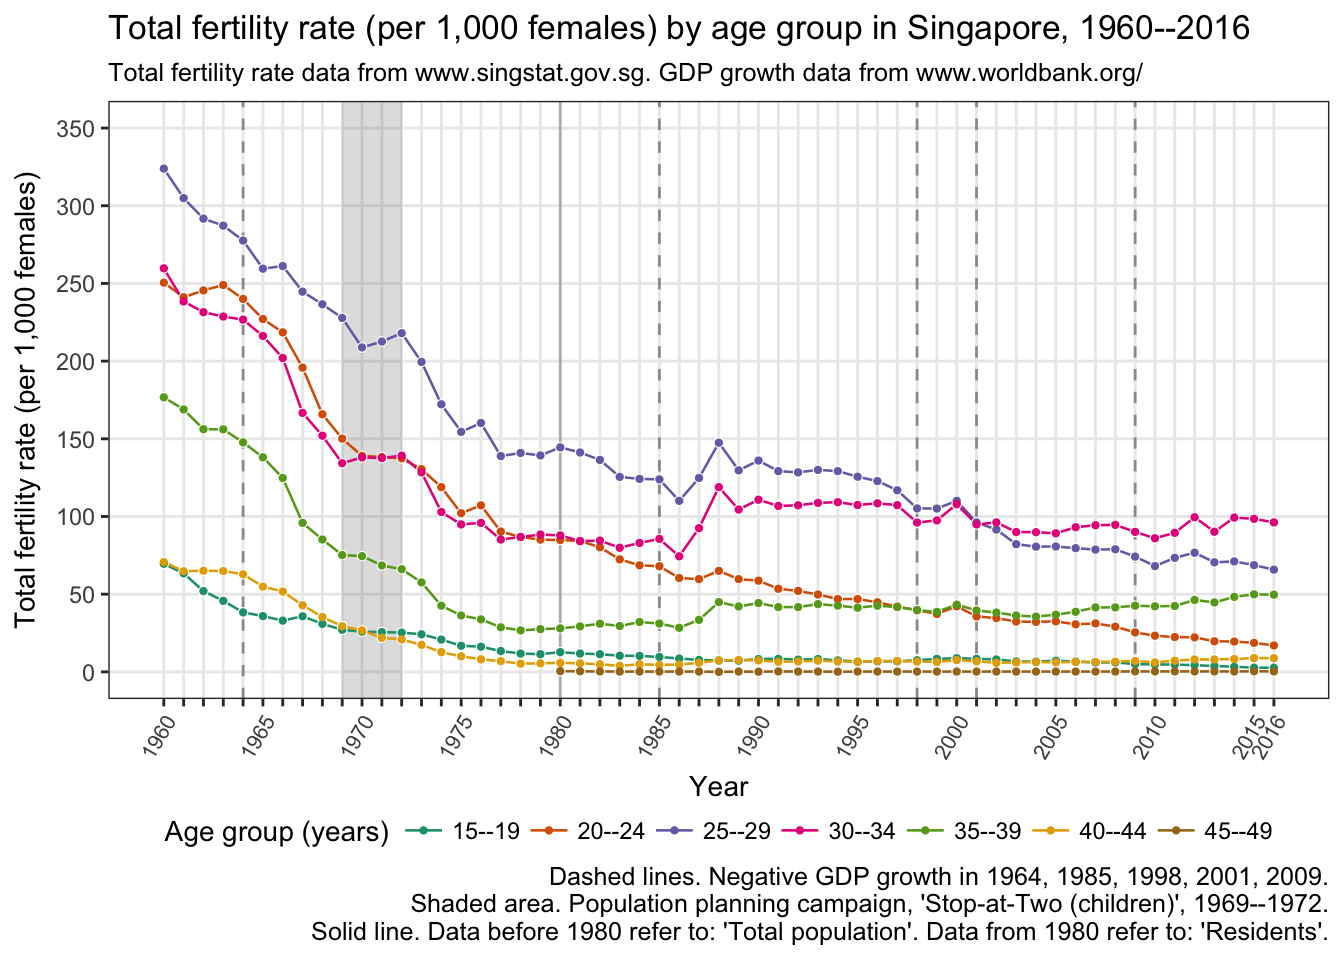
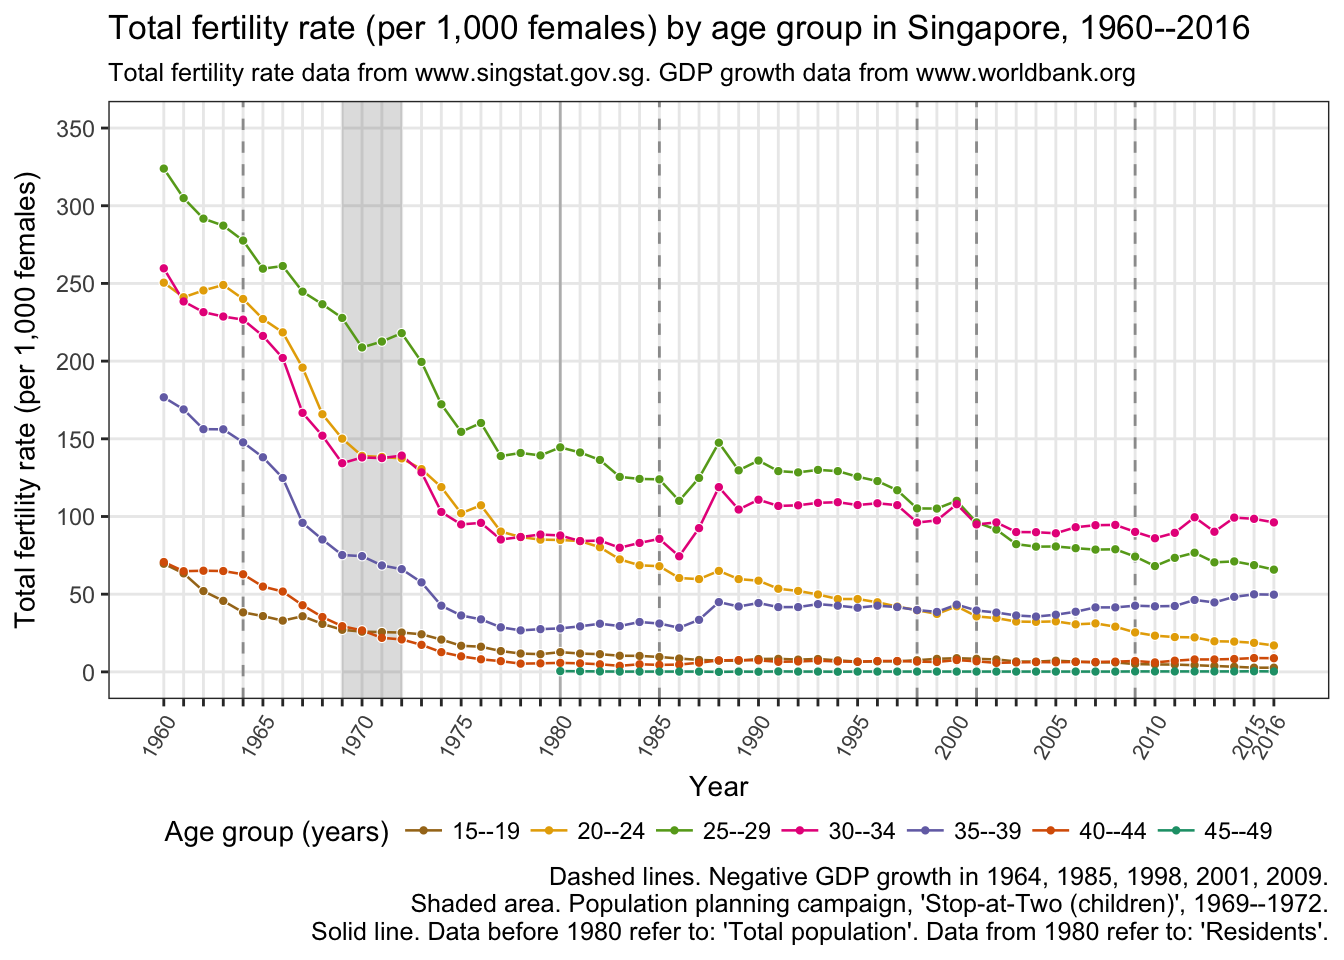
Changed colour order in age plot; changed date of post

diff --git a/content/posts/2018-02-14-surprising-trends-singapore-fertility.html b/content/posts/2018-02-14-surprising-trends-singapore-fertility.html
@@ -1,7 +1,7 @@
 ---
 title: 3 surprising trends in Singapore's fertility rate
 author: Kenneth Lim
-date: '2018-02-14'
+date: '2018-02-16'
 slug: surprising-trends-singapore-fertility
 categories:
   - population
@@ -102,7 +102,8 @@ output:
 </tr>
 </tbody>
 </table>
-<p>What about the total fertility rate by the three major ethnic groups in Singapore? <img src="/posts/2018-02-14-surprising-trends-singapore-fertility_files/figure-html/ethnic-1.png" width="672" /></p>
+<p>What about the total fertility rate by the three major ethnic groups in Singapore?</p>
+<p><img src="/posts/2018-02-14-surprising-trends-singapore-fertility_files/figure-html/ethnic-1.png" width="672" /></p>
 <ul>
 <li>There is an overall downward trend in the TFR across the three major ethnic groups over the years. In 2016, the TFR for all three groups was below 2.1.
 <ul>
@@ -117,7 +118,8 @@ output:
 <li><p>Look again at the trend for Chinese females. Notice the bumps during the Dragon years of 1976, 1988, 2000, 2012? The bumps don’t really appear for the other ethnic groups!</p></li>
 </ul>
 <p>One reason for the declining TFR is: <a href="https://www.sgh.com.sg/about-us/newsroom/News-Articles-Reports/Pages/BabyComeLately.aspx">women are conceiving when they are older (click to read more)</a>. What trends can the data reveal?</p>
-<p>The chart below shows the total fertility rate per 1,000 females (note the change as compared to ‘TFR per female’ in the previous charts) by the different age groups from 1960 to 2016. <img src="/posts/2018-02-14-surprising-trends-singapore-fertility_files/figure-html/age-1.png" width="672" /></p>
+<p>The chart below shows the total fertility rate per 1,000 females (note the change as compared to ‘TFR per female’ in the previous charts) by the different age groups from 1960 to 2016.</p>
+<p><img src="/posts/2018-02-14-surprising-trends-singapore-fertility_files/figure-html/age-1.png" width="672" /></p>
 <ul>
 <li><p>Overall, there was a downward trend in the TFR across all age groups.</p></li>
 <li><p>In 1960, women who were 20–34 years old (from the three age groups), had the highest TFR.</p></li>
